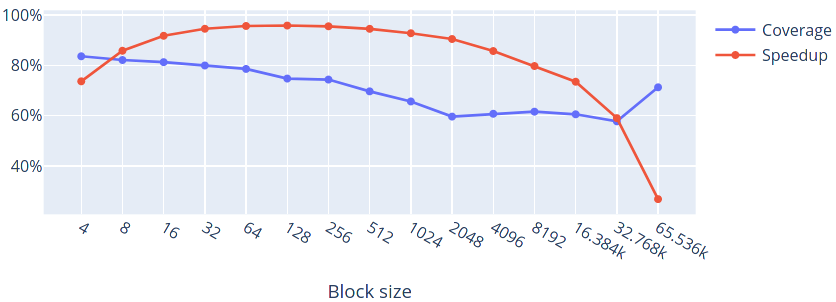
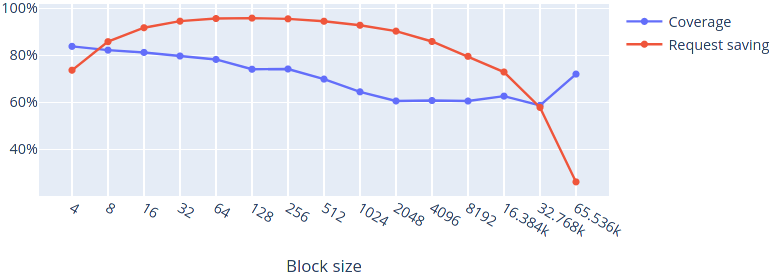
speedup -> request savings Rework IDS introduction

Changed region(s): [[0.0, 0.0, 1.0, 0.8696], [0.3721, 0.9275, 0.4961, 1.0], [0.093, 0.7246, 0.155, 0.7826]]

diff --git a/chapters/4_elaborating-approaches.tex b/chapters/4_elaborating-approaches.tex
@@ -60,19 +60,19 @@ The following pseudocode shows the procedure more clearly.
 
 \begin{samepage}
 \begin{minted}{python}
-coverages = []                                                 
-speedups = []                                                  
-for expansion_width in range(1000):                             
-    coverages_ecus = []                                       
-    speedups_ecus = []                                        
-    for ecu in ecus:                                           
-        ids_type1 = get_type1_ids(ecu)                         
-        to_scan = ids_to_block(ids_type1, expansion_width)     
-        coverages_ecus.append(get_coverage(ecu, to_scan))     
-        count_requests = len(to_scan)                          
-        speedups_ecus.append(get_speedup(ecu, count_requests))
-    coverages[expansion_width] = avg(coverages_ecus)
-    speedups[expansion_width] = avg(speedups_ecus)
+    coverages = []
+    request_savings = []
+    for expansion_width in range(1001):
+        coverages_width = []
+        request_savings_width = []
+        for ecu in ecus:
+            ids_type1 = get_type1_ids(ecu)
+            to_scan = ids_to_block(ids_type1, expansion_width)
+            count_requests = len(to_scan)
+            coverages_width.append(get_coverage(ecu, to_scan))
+            request_savings_width.append(get_saving(count_requests))
+        coverages[expansion_width] = avg(coverages_ecus)
+        request_savings[expansion_width] = avg(request_saving)
 \end{minted}
 \end{samepage}
 
@@ -80,7 +80,7 @@ The result of this simulation is plotted in \autoref{fig:rc-simulation-result}. 
 
 \begin{figure}[h]
     \centering
-    \includegraphics[width=0.7\textwidth]{rc-simulation-result}
+    \includegraphics[width=0.8\textwidth]{rc-simulation-result}
     \caption{Result of the RC scan simulation to find the best expansion width.}
     \label{fig:rc-simulation-result}
 \end{figure}
@@ -139,21 +139,23 @@ The following pseudocode shows the procedure more clearly.
 
 \begin{samepage}
 \begin{minted}{python}
-for exponent in range(2, 16):
-    block_size = 2 ** exponent
     coverages = []
-    samples = []
-    probabilities = get_probabilities(ecus, block_size)
-    for ecu in ecus:
-        for i in range(100):
-            samples = random_samples(block_size, probabilities)
-            positive_identifiers = ecu.get_positive_identifiers(samples)
-            block_list = to_blocks(positive_identifiers, block_size)
-            positive_identifiers = ecu.get_positive_identifiers(block_list)
-
-            coverages.append(get_coverage(ecu, positive_identifiers))
-            samples.append(len(block_list))
-        avg_coverages, avg_samples = avg(coverages, samples)
+    request_savings = []
+    for exponent in range(2, 17):
+        block_size = 2 ** exponent
+        probabilities = get_probabilities(ecus, block_size)
+        coverages_block = []
+        request_savings_block = []
+        for ecu in ecus:
+            for i in range(100):
+                req_random = random_samples(block_size, probabilities)
+                positive_identifiers = ecu.get_positive_identifiers(req_random)
+                req_block = to_blocks(positive_identifiers, block_size)
+                positive_identifiers = ecu.get_positive_identifiers(req_block)
+                count_reqs = len(samples) + len(req_list)
+                coverages_block.append(get_coverage(ecu, positive_identifiers))
+                request_savings_block.append(get_saving(count_reqs))
+        request_savings[exponent] = avg(request_savings_block)
 \end{minted}
 \end{samepage}
 

diff --git a/chapters/2_background.tex b/chapters/2_background.tex
@@ -83,7 +83,7 @@ First, CAN packets do not contain any authentication information. An ECU receivi
 Also, originally, CAN bus networks lacked network segmentation, since each message is broadcasted and received by each node of the network \cite{Buttigieg2017}. Nowadays, car networks of higher-class cars like Audi and BMW are usually divided into less and more critical segments by so-called Gateway ECUs \cite{Bozdal2020}. Despite the increase in the level of security, this makes it more difficult to maintain the system, which is associated with increased costs \cite{Bozdal2020}.
 The final security vulnerability is the lack of data encryption \cite{Buttigieg2017}. Lightweight encryption systems could be implemented, but are limited by the short length of the data field (8 bytes) and the limited computing power of ECUs \cite{Bozdal2020}.
 
-Since all countermeasures described in the previous paragraph are limited, Intrusion Detection Systems (IDS) are emerging, with the advantages of not having to change the current CAN controller and not increasing bus traffic \cite{Bozdal2020}. Such a system has been implemented in the context of the PetS3 project \cite{spahn2018}.
+Since all countermeasures described in the previous paragraph are limited, Intrusion Detection Systems (IDS) are emerging, with the advantages of not having to change the current CAN controller and not increasing bus traffic \cite{Bozdal2020}. A proof of concept of such systems was implemented by eMundo in preparation for the PetS3 project \cite{spahn2018}.
 
 \subsubsection{Virtual CAN interfaces and using the can-utils}
 \label{subsubsec:can-utils}

diff --git a/chapters/3_data-gathering.tex b/chapters/3_data-gathering.tex
@@ -42,11 +42,11 @@ The resulting candump.log file recorded with the command explained in \autoref{s
 
 \begin{samepage}
 \begin{minted}{text}
-(<timestamp>) <interface> <identifier>#<payload>
-(1611779255.926425) can1 714#03225FB2CCCCCCCC
-(1611779255.929936) can1 77E#037F2231AAAAAAAA
-(1611779255.935338) can1 714#03225FB3CCCCCCCC
-(1611779255.940680) can1 77E#037F2231AAAAAAAA
+    (<timestamp>) <interface> <identifier>#<payload>
+    (1611779255.926425) can1 714#03225FB2CCCCCCCC
+    (1611779255.929936) can1 77E#037F2231AAAAAAAA
+    (1611779255.935338) can1 714#03225FB3CCCCCCCC
+    (1611779255.940680) can1 77E#037F2231AAAAAAAA
 \end{minted}
 \end{samepage}
 
